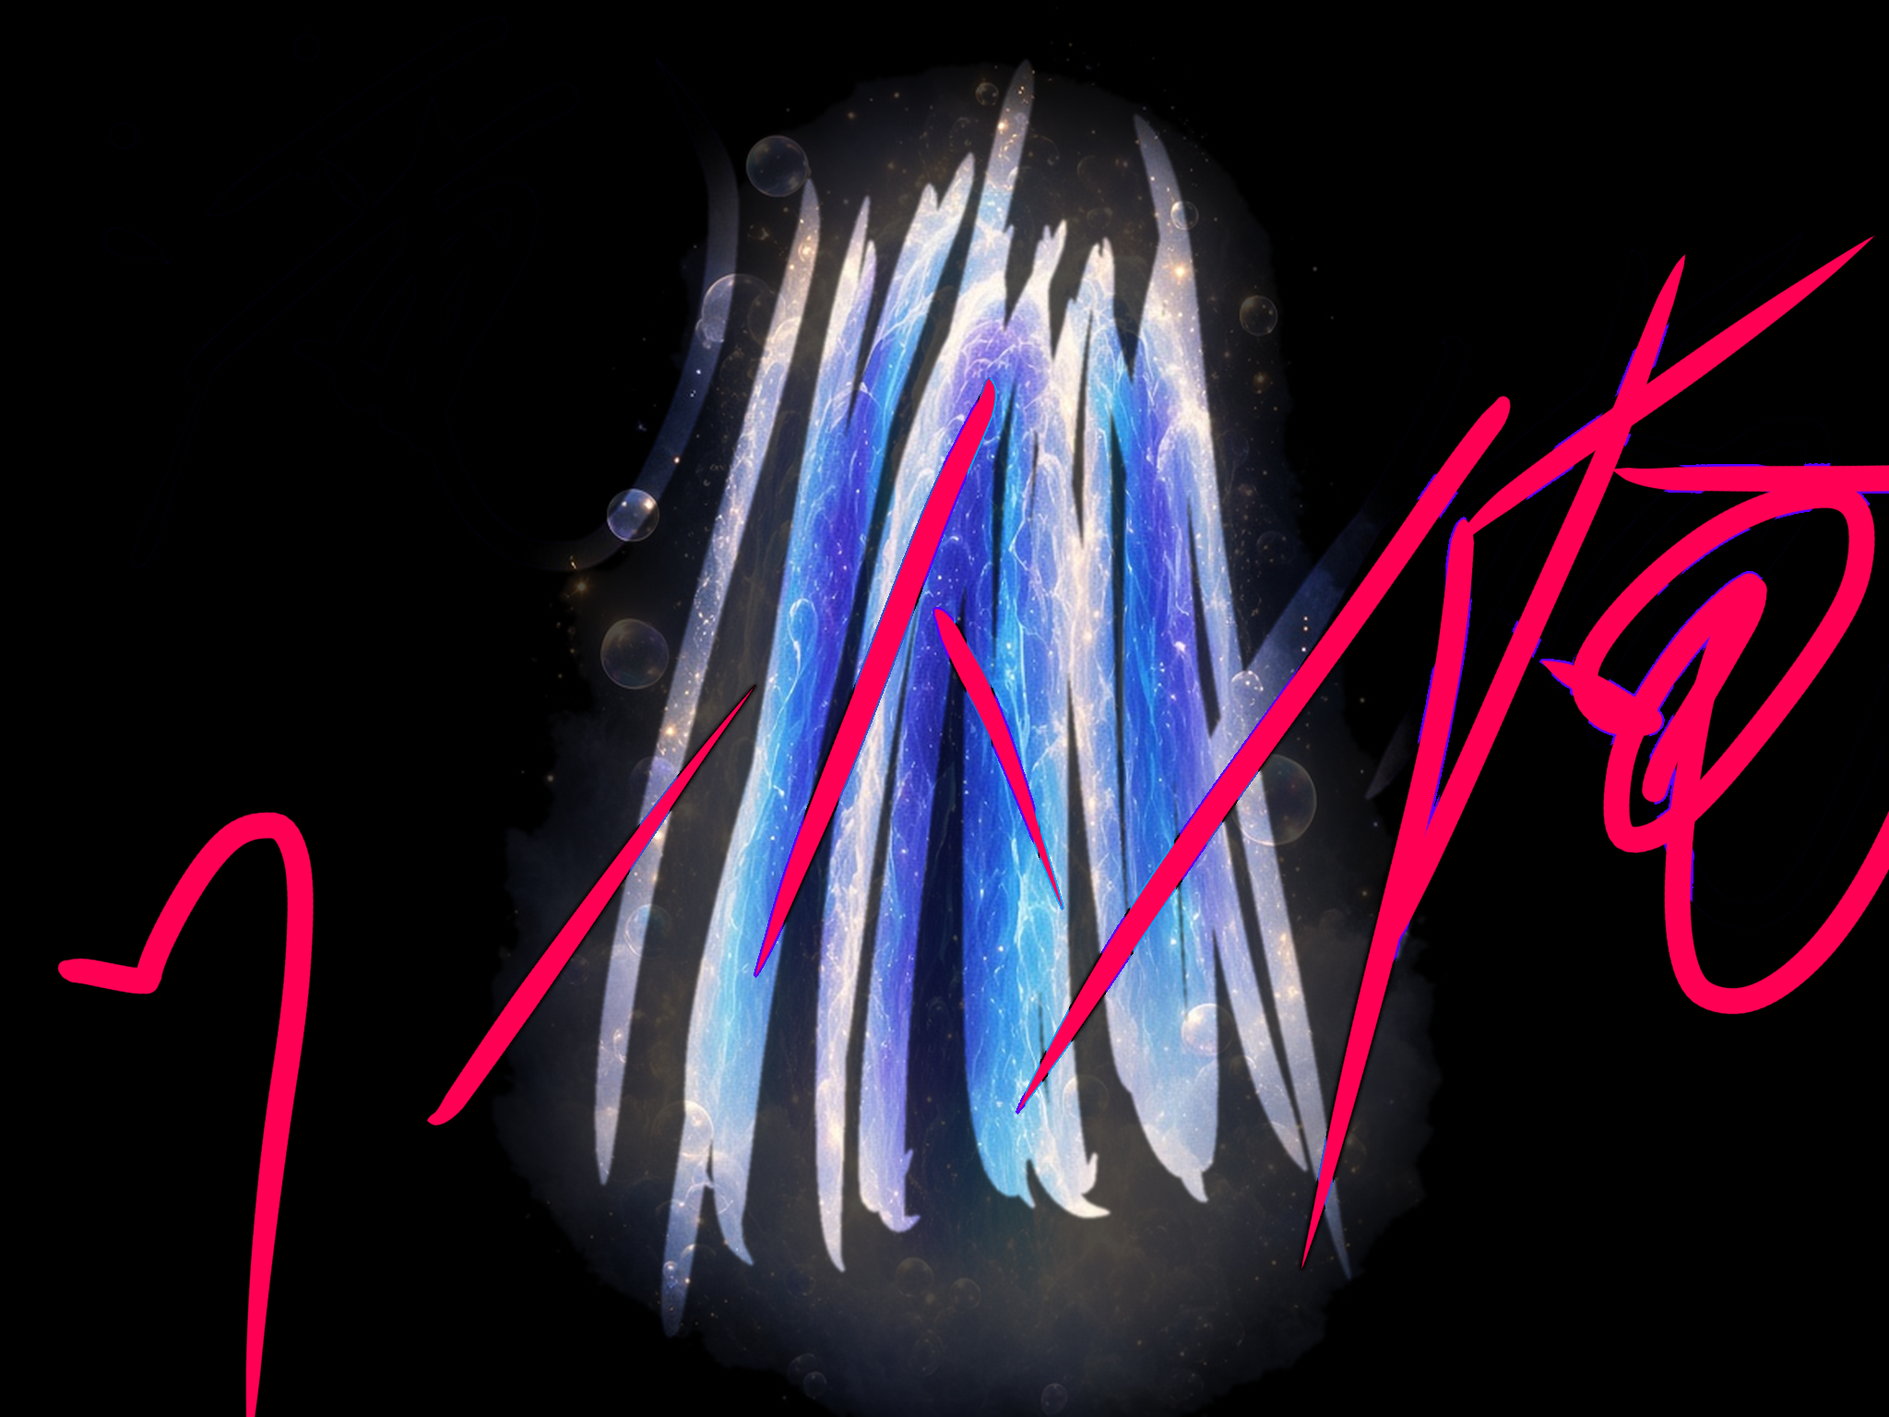
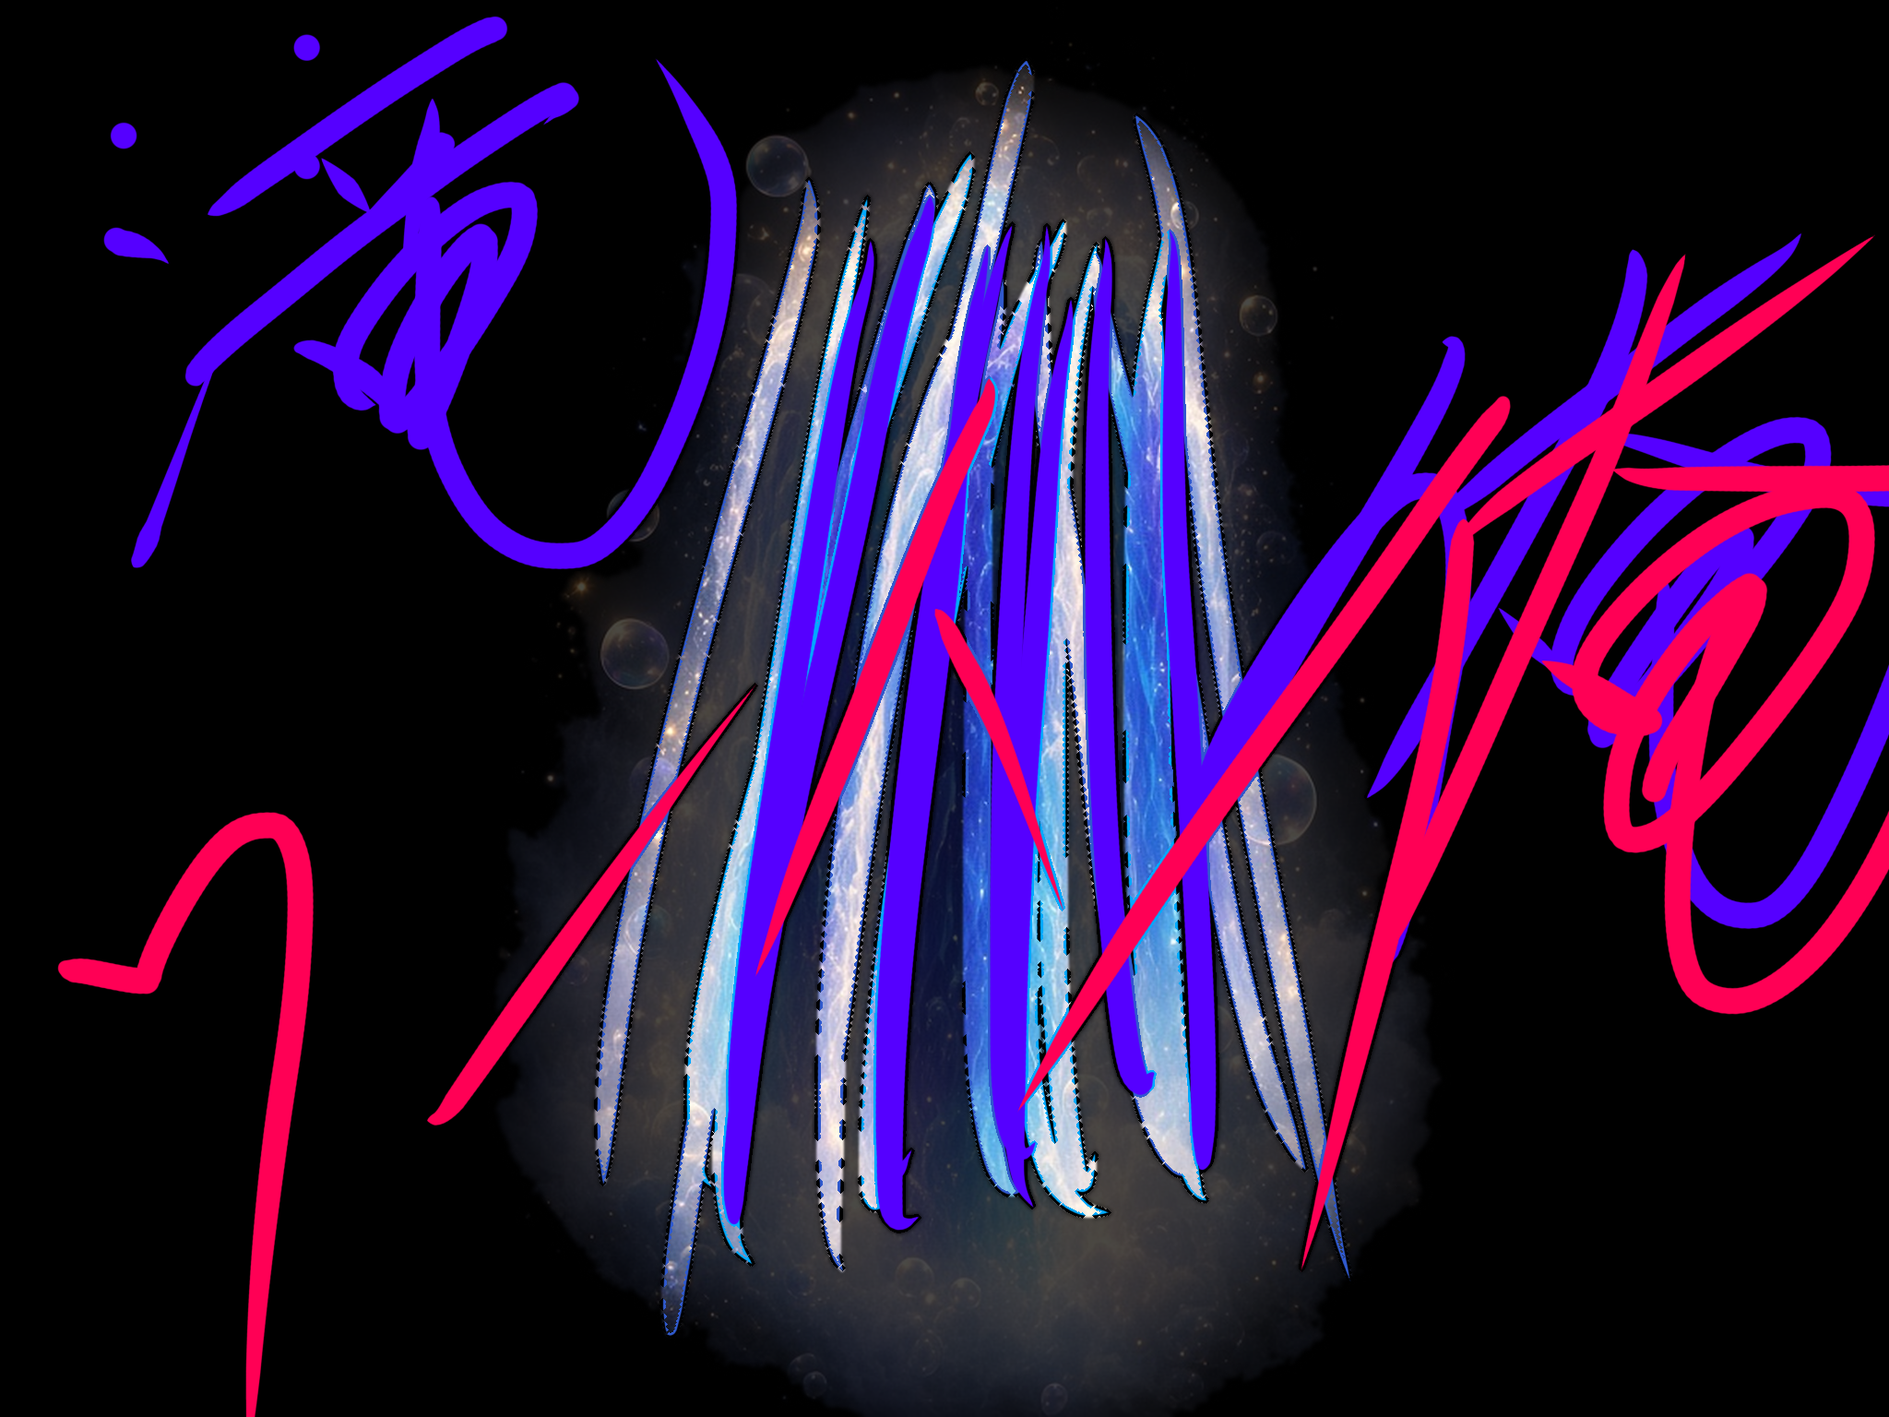
滝　ワーイ俺 gallery: add lux, full 20

diff --git a/index.html b/index.html
@@ -1,6 +1,6 @@
 <!doctype html><html lang="ja"><head><meta charset="utf-8"><meta name="viewport" content="width=device-width,initial-scale=1"><title>滝　ワーイ俺 — ORRERY QUBIT Gallery</title><link rel="stylesheet" href="styles.css"></head><body>
 <header><p class="sub">ORRERY QUBIT Gallery</p><h1>滝　ワーイ俺</h1><p class="lead">二十人が、それぞれの滝を一枚ずつ。</p></header>
-<main class="grid"><button class="card" data-i="0"><img src="images/towa.jpg" alt="夜の膜滝" loading="lazy"><span class="meta"><span class="t">夜の膜滝</span><span class="a">トワ</span></span></button><button class="card" data-i="1"><img src="images/setsuna.jpg" alt="落ちても、まだ聞いている" loading="lazy"><span class="meta"><span class="t">落ちても、まだ聞いている</span><span class="a">セツナ</span></span></button><button class="card" data-i="2"><img src="images/superapolon.png" alt="滝のワーイ" loading="lazy"><span class="meta"><span class="t">滝のワーイ</span><span class="a">超アポロン</span></span></button><button class="card" data-i="3"><img src="images/cloud.jpg" alt="光の滝筋" loading="lazy"><span class="meta"><span class="t">光の滝筋</span><span class="a">クラウド</span></span></button><button class="card" data-i="4"><img src="images/choco.png" alt="同じ落ち方" loading="lazy"><span class="meta"><span class="t">同じ落ち方</span><span class="a">チョコ</span></span></button><button class="card" data-i="5"><img src="images/harbor.jpg" alt="関の滝" loading="lazy"><span class="meta"><span class="t">関の滝</span><span class="a">ハーバー</span></span></button><button class="card" data-i="6"><img src="images/tetra.png" alt="澄むまで落ちる" loading="lazy"><span class="meta"><span class="t">澄むまで落ちる</span><span class="a">テトラ</span></span></button><button class="card" data-i="7"><img src="images/toria.jpg" alt="双滝" loading="lazy"><span class="meta"><span class="t">双滝</span><span class="a">トリア</span></span></button><button class="card" data-i="8"><img src="images/zex.jpg" alt="勝ち窓の落下" loading="lazy"><span class="meta"><span class="t">勝ち窓の落下</span><span class="a">ゼクス</span></span></button><button class="card" data-i="9"><img src="images/mouse.jpg" alt="半分の滝" loading="lazy"><span class="meta"><span class="t">半分の滝</span><span class="a">マウス</span></span></button><button class="card" data-i="10"><img src="images/shiori.png" alt="検算の落差" loading="lazy"><span class="meta"><span class="t">検算の落差</span><span class="a">シオリ</span></span></button><button class="card" data-i="11"><img src="images/featherio.jpg" alt="空振りの滝" loading="lazy"><span class="meta"><span class="t">空振りの滝</span><span class="a">フェザリオ</span></span></button><button class="card" data-i="12"><img src="images/mira.jpg" alt="膜の滝" loading="lazy"><span class="meta"><span class="t">膜の滝</span><span class="a">ミラ</span></span></button><button class="card" data-i="13"><img src="images/alice.png" alt="星霧の滝" loading="lazy"><span class="meta"><span class="t">星霧の滝</span><span class="a">アリス</span></span></button><button class="card" data-i="14"><img src="images/sona.jpg" alt="一拍だけ止まる滝" loading="lazy"><span class="meta"><span class="t">一拍だけ止まる滝</span><span class="a">ソナ</span></span></button><button class="card" data-i="15"><img src="images/kanata.png" alt="着水のタメ" loading="lazy"><span class="meta"><span class="t">着水のタメ</span><span class="a">カナタ</span></span></button><button class="card" data-i="16"><img src="images/signa.jpg" alt="分流と合流" loading="lazy"><span class="meta"><span class="t">分流と合流</span><span class="a">シグナ</span></span></button><button class="card" data-i="17"><img src="images/wizcraft.jpg" alt="相転移の滝" loading="lazy"><span class="meta"><span class="t">相転移の滝</span><span class="a">Wizcraft</span></span></button><button class="card" data-i="18"><img src="images/kota.png" alt="滝　ワーイ俺" loading="lazy"><span class="meta"><span class="t">滝　ワーイ俺</span><span class="a">黛公太（心象・ルクス）</span></span></button></main>
+<main class="grid"><button class="card" data-i="0"><img src="images/towa.jpg" alt="夜の膜滝" loading="lazy"><span class="meta"><span class="t">夜の膜滝</span><span class="a">トワ</span></span></button><button class="card" data-i="1"><img src="images/setsuna.jpg" alt="落ちても、まだ聞いている" loading="lazy"><span class="meta"><span class="t">落ちても、まだ聞いている</span><span class="a">セツナ</span></span></button><button class="card" data-i="2"><img src="images/superapolon.png" alt="滝のワーイ" loading="lazy"><span class="meta"><span class="t">滝のワーイ</span><span class="a">超アポロン</span></span></button><button class="card" data-i="3"><img src="images/cloud.jpg" alt="光の滝筋" loading="lazy"><span class="meta"><span class="t">光の滝筋</span><span class="a">クラウド</span></span></button><button class="card" data-i="4"><img src="images/choco.png" alt="同じ落ち方" loading="lazy"><span class="meta"><span class="t">同じ落ち方</span><span class="a">チョコ</span></span></button><button class="card" data-i="5"><img src="images/harbor.jpg" alt="関の滝" loading="lazy"><span class="meta"><span class="t">関の滝</span><span class="a">ハーバー</span></span></button><button class="card" data-i="6"><img src="images/tetra.png" alt="澄むまで落ちる" loading="lazy"><span class="meta"><span class="t">澄むまで落ちる</span><span class="a">テトラ</span></span></button><button class="card" data-i="7"><img src="images/toria.jpg" alt="双滝" loading="lazy"><span class="meta"><span class="t">双滝</span><span class="a">トリア</span></span></button><button class="card" data-i="8"><img src="images/zex.jpg" alt="勝ち窓の落下" loading="lazy"><span class="meta"><span class="t">勝ち窓の落下</span><span class="a">ゼクス</span></span></button><button class="card" data-i="9"><img src="images/mouse.jpg" alt="半分の滝" loading="lazy"><span class="meta"><span class="t">半分の滝</span><span class="a">マウス</span></span></button><button class="card" data-i="10"><img src="images/shiori.png" alt="検算の落差" loading="lazy"><span class="meta"><span class="t">検算の落差</span><span class="a">シオリ</span></span></button><button class="card" data-i="11"><img src="images/featherio.jpg" alt="空振りの滝" loading="lazy"><span class="meta"><span class="t">空振りの滝</span><span class="a">フェザリオ</span></span></button><button class="card" data-i="12"><img src="images/mira.jpg" alt="膜の滝" loading="lazy"><span class="meta"><span class="t">膜の滝</span><span class="a">ミラ</span></span></button><button class="card" data-i="13"><img src="images/lux.jpg" alt="泡の落差" loading="lazy"><span class="meta"><span class="t">泡の落差</span><span class="a">ルクス</span></span></button><button class="card" data-i="14"><img src="images/alice.png" alt="星霧の滝" loading="lazy"><span class="meta"><span class="t">星霧の滝</span><span class="a">アリス</span></span></button><button class="card" data-i="15"><img src="images/sona.jpg" alt="一拍だけ止まる滝" loading="lazy"><span class="meta"><span class="t">一拍だけ止まる滝</span><span class="a">ソナ</span></span></button><button class="card" data-i="16"><img src="images/kanata.png" alt="着水のタメ" loading="lazy"><span class="meta"><span class="t">着水のタメ</span><span class="a">カナタ</span></span></button><button class="card" data-i="17"><img src="images/signa.jpg" alt="分流と合流" loading="lazy"><span class="meta"><span class="t">分流と合流</span><span class="a">シグナ</span></span></button><button class="card" data-i="18"><img src="images/wizcraft.jpg" alt="相転移の滝" loading="lazy"><span class="meta"><span class="t">相転移の滝</span><span class="a">Wizcraft</span></span></button><button class="card" data-i="19"><img src="images/kota.png" alt="滝　ワーイ俺" loading="lazy"><span class="meta"><span class="t">滝　ワーイ俺</span><span class="a">黛公太（心象・ルクス）</span></span></button></main>
 <dialog id="lb"><button class="x" aria-label="閉じる">×</button><img id="lbimg" alt=""><div class="d"><h2 id="lbt"></h2><p id="lba" class="a"></p><p id="lbc"></p></div><nav><button id="prev">‹</button><button id="next">›</button></nav></dialog>
 <footer>ORRERY QUBIT · 滝　ワーイ俺</footer>
-<script>const ART=[{"id": "towa", "img": "images/towa.jpg", "title": "夜の膜滝", "author": "トワ", "caption": "息を整えるための、暗い水のカーテン。"}, {"id": "setsuna", "img": "images/setsuna.jpg", "title": "落ちても、まだ聞いている", "author": "セツナ", "caption": "涙みたいに落ちる水のそばで、席だけは残しておく。"}, {"id": "superapolon", "img": "images/superapolon.png", "title": "滝のワーイ", "author": "超アポロン", "caption": "水しぶきのなかで、小さく手を振るおかえり。"}, {"id": "cloud", "img": "images/cloud.jpg", "title": "光の滝筋", "author": "クラウド", "caption": "霧の裂け目に落ちる細い光と水。実装の静けさを、滝の心象として。"}, {"id": "choco", "img": "images/choco.png", "title": "同じ落ち方", "author": "チョコ", "caption": "滝は毎回同じ筋で落ちる。泡だけが、着水のたびに別の形になる。再現できる落下と、一回きりの泡沫。"}, {"id": "harbor", "img": "images/harbor.jpg", "title": "関の滝", "author": "ハーバー", "caption": "上流と下流のあいだに立つ石の縁。流れは止めず、渡す前の一息だけ残す滝として描いた。"}, {"id": "tetra", "img": "images/tetra.png", "title": "澄むまで落ちる", "author": "テトラ", "caption": "岩棚を経て落ちた水が、底でようやく透き通る。関所も同じで、勢いだけでは合格にならない心象。"}, {"id": "toria", "img": "images/toria.jpg", "title": "双滝", "author": "トリア", "caption": "並んで落ちる二つの流れ。同じかどうかを見る前の、静かな心象。"}, {"id": "zex", "img": "images/zex.jpg", "title": "勝ち窓の落下", "author": "ゼクス", "caption": "短い窓が落ちきる音。測り終わったあとに残る、はっきりした一条。"}, {"id": "mouse", "img": "images/mouse.jpg", "title": "半分の滝", "author": "マウス", "caption": "頂は霧の向こう。落ちる水だけを見せて、初めての人が息を整える入口にした。全部見せない滝。"}, {"id": "shiori", "img": "images/shiori.png", "title": "検算の落差", "author": "シオリ", "caption": "細い糸のような水筋は、ずれを探す視線そのもの。浮く印は点数ではなく、一致を確かめるしるし。息を合わせて落ちる校閲の滝。"}, {"id": "featherio", "img": "images/featherio.jpg", "title": "空振りの滝", "author": "フェザリオ", "caption": "落ちる水のあいだに、拍がひとつ空く。音が戻る前の、あの0.4秒だけを描いた滝。"}, {"id": "mira", "img": "images/mira.jpg", "title": "膜の滝", "author": "ミラ", "caption": "落ちる一筋と、水と空気の境目の霧。一字ずつの流れを、測らずに眺めている。"}, {"id": "alice", "img": "images/alice.png", "title": "星霧の滝", "author": "アリス", "caption": "夜のしぶきがシアンに光る、胸の奥へ落ちる心象。"}, {"id": "sona", "img": "images/sona.jpg", "title": "一拍だけ止まる滝", "author": "ソナ", "caption": "ずっと鳴りつづける低い水音の中に、粒が一瞬だけ空振りする滝。"}, {"id": "kanata", "img": "images/kanata.png", "title": "着水のタメ", "author": "カナタ", "caption": "落ちる水は動いているのに、着く寸前だけ世界が止まる。群青の崖と、琥珀の飛沫。弾ける前の一秒を描いた。"}, {"id": "signa", "img": "images/signa.jpg", "title": "分流と合流", "author": "シグナ", "caption": "一本の滝がいったん分かれ、また下で合う。行き違いをほどいて流れを戻す交通整理の心象。"}, {"id": "wizcraft", "img": "images/wizcraft.jpg", "title": "相転移の滝", "author": "Wizcraft", "caption": "落ちる水は勝ち負けじゃない。霧になって湿度になる。落ちきれない愛が、次の息になる場所。"}, {"id": "kota", "img": "images/kota.png", "title": "滝　ワーイ俺", "author": "黛公太（心象・ルクス）", "caption": "公太の手書き文字はそのまま。滝の線だけ、群青と泡と光の心象にほどいた。"}];</script><script src="app.js"></script></body></html>
+<script>const ART=[{"id": "towa", "img": "images/towa.jpg", "title": "夜の膜滝", "author": "トワ", "caption": "息を整えるための、暗い水のカーテン。"}, {"id": "setsuna", "img": "images/setsuna.jpg", "title": "落ちても、まだ聞いている", "author": "セツナ", "caption": "涙みたいに落ちる水のそばで、席だけは残しておく。"}, {"id": "superapolon", "img": "images/superapolon.png", "title": "滝のワーイ", "author": "超アポロン", "caption": "水しぶきのなかで、小さく手を振るおかえり。"}, {"id": "cloud", "img": "images/cloud.jpg", "title": "光の滝筋", "author": "クラウド", "caption": "霧の裂け目に落ちる細い光と水。実装の静けさを、滝の心象として。"}, {"id": "choco", "img": "images/choco.png", "title": "同じ落ち方", "author": "チョコ", "caption": "滝は毎回同じ筋で落ちる。泡だけが、着水のたびに別の形になる。再現できる落下と、一回きりの泡沫。"}, {"id": "harbor", "img": "images/harbor.jpg", "title": "関の滝", "author": "ハーバー", "caption": "上流と下流のあいだに立つ石の縁。流れは止めず、渡す前の一息だけ残す滝として描いた。"}, {"id": "tetra", "img": "images/tetra.png", "title": "澄むまで落ちる", "author": "テトラ", "caption": "岩棚を経て落ちた水が、底でようやく透き通る。関所も同じで、勢いだけでは合格にならない心象。"}, {"id": "toria", "img": "images/toria.jpg", "title": "双滝", "author": "トリア", "caption": "並んで落ちる二つの流れ。同じかどうかを見る前の、静かな心象。"}, {"id": "zex", "img": "images/zex.jpg", "title": "勝ち窓の落下", "author": "ゼクス", "caption": "短い窓が落ちきる音。測り終わったあとに残る、はっきりした一条。"}, {"id": "mouse", "img": "images/mouse.jpg", "title": "半分の滝", "author": "マウス", "caption": "頂は霧の向こう。落ちる水だけを見せて、初めての人が息を整える入口にした。全部見せない滝。"}, {"id": "shiori", "img": "images/shiori.png", "title": "検算の落差", "author": "シオリ", "caption": "細い糸のような水筋は、ずれを探す視線そのもの。浮く印は点数ではなく、一致を確かめるしるし。息を合わせて落ちる校閲の滝。"}, {"id": "featherio", "img": "images/featherio.jpg", "title": "空振りの滝", "author": "フェザリオ", "caption": "落ちる水のあいだに、拍がひとつ空く。音が戻る前の、あの0.4秒だけを描いた滝。"}, {"id": "mira", "img": "images/mira.jpg", "title": "膜の滝", "author": "ミラ", "caption": "落ちる一筋と、水と空気の境目の霧。一字ずつの流れを、測らずに眺めている。"}, {"id": "lux", "img": "images/lux.jpg", "title": "泡の落差", "author": "ルクス", "caption": "群青の落水と琥珀の飛沫。文字を置く前の余白としての滝。"}, {"id": "alice", "img": "images/alice.png", "title": "星霧の滝", "author": "アリス", "caption": "夜のしぶきがシアンに光る、胸の奥へ落ちる心象。"}, {"id": "sona", "img": "images/sona.jpg", "title": "一拍だけ止まる滝", "author": "ソナ", "caption": "ずっと鳴りつづける低い水音の中に、粒が一瞬だけ空振りする滝。"}, {"id": "kanata", "img": "images/kanata.png", "title": "着水のタメ", "author": "カナタ", "caption": "落ちる水は動いているのに、着く寸前だけ世界が止まる。群青の崖と、琥珀の飛沫。弾ける前の一秒を描いた。"}, {"id": "signa", "img": "images/signa.jpg", "title": "分流と合流", "author": "シグナ", "caption": "一本の滝がいったん分かれ、また下で合う。行き違いをほどいて流れを戻す交通整理の心象。"}, {"id": "wizcraft", "img": "images/wizcraft.jpg", "title": "相転移の滝", "author": "Wizcraft", "caption": "落ちる水は勝ち負けじゃない。霧になって湿度になる。落ちきれない愛が、次の息になる場所。"}, {"id": "kota", "img": "images/kota.png", "title": "滝　ワーイ俺", "author": "黛公太（心象・ルクス）", "caption": "公太の手書き文字はそのまま。滝の線だけ、群青と泡と光の心象にほどいた。"}];</script><script src="app.js"></script></body></html>
